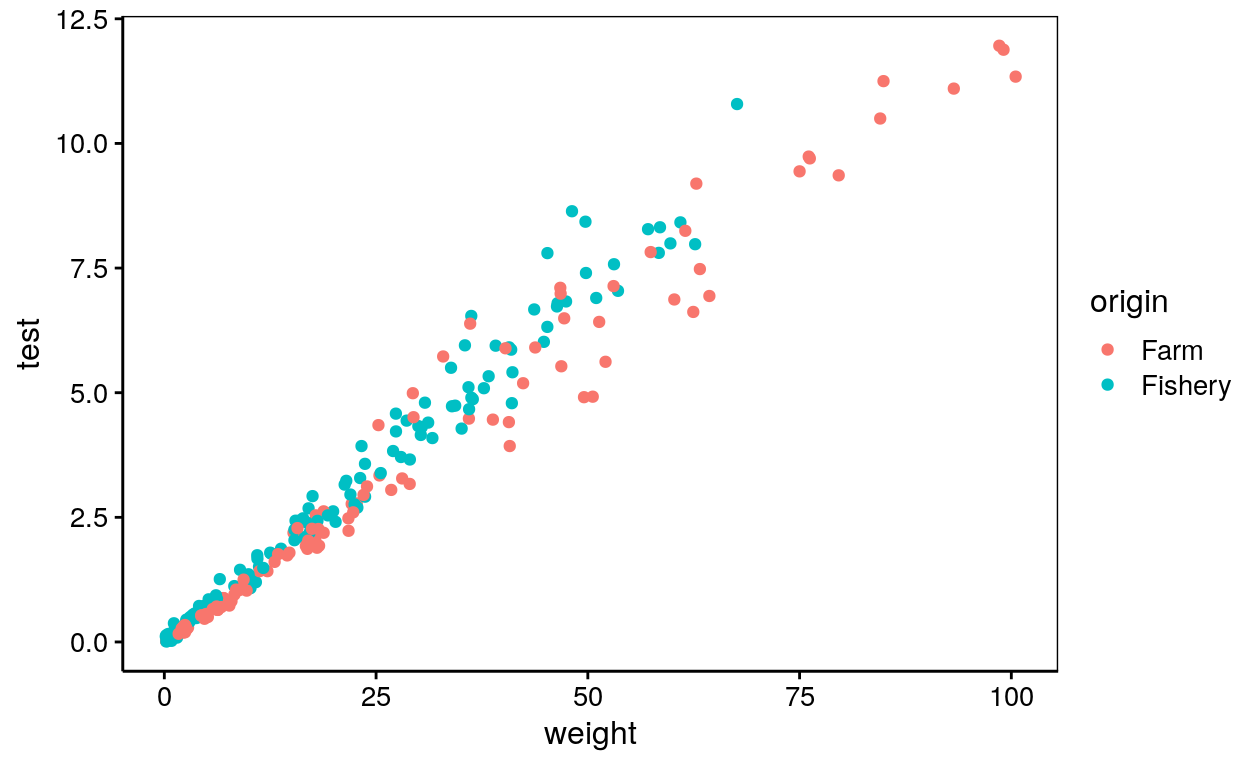
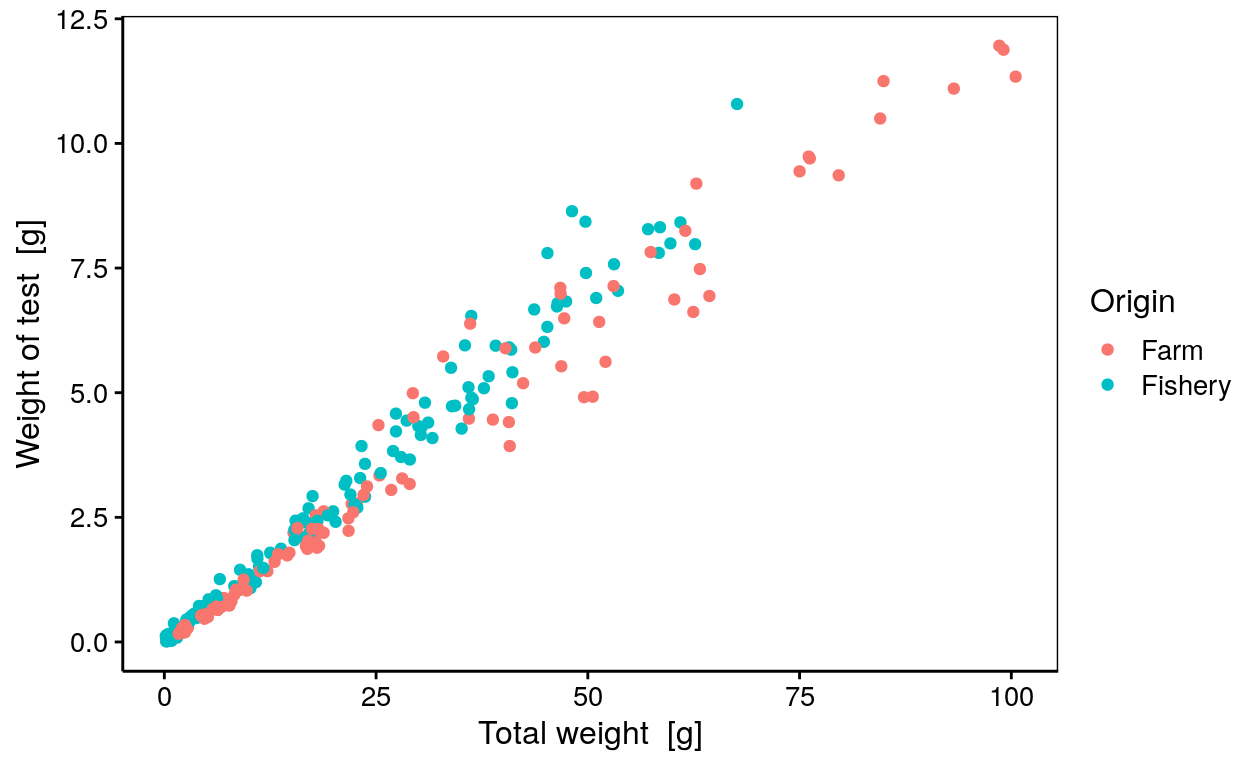
rectification graphique

Changed region(s): [[0.0, 0.2812, 0.0312, 0.625], [0.375, 0.9375, 0.5625, 1.0], [0.875, 0.375, 0.9375, 0.4062]]

diff --git a/docs/posts/graphic-description/index.html b/docs/posts/graphic-description/index.html
@@ -1364,13 +1364,20 @@ document.addEventListener('DOMContentLoaded', function() {
 <div class="d-article">
 <p>This article will study how the urchin’s skeleton could be influenced by the environment. In this case, we will study how is evolving the ratio between the weight of the test, which is the urchin’s skeleton, and the total weight. We will also distinguish if the different individuals come from the fishery or if they were raised in farm. We will work from a set of data which contains 421 observations and measurements following 19 variables.</p>
 <div class="layout-chunk" data-layout="l-body">
+<pre class="r"><code>
+SciViews::R</code></pre>
 <pre><code>
 ── Conflicts ─────────────────────────────────────── tidyverse_conflicts() ──
 x dplyr::filter() masks stats::filter()
 x dplyr::lag()    masks stats::lag()
 x dplyr::select() masks MASS::select()</code></pre>
+<pre class="r"><code>
+data &lt;- read(&quot;urchin_bio&quot;, package = &quot;data.io&quot;)</code></pre>
 </div>
 <div class="layout-chunk" data-layout="l-body">
+<pre class="r"><code>
+chart(data, test ~ weight %col=% origin) +
+  geom_point(na.rm = TRUE)</code></pre>
 <p><img src="graphicdescription_files/figure-html5/unnamed-chunk-2-1.png" width="624" /></p>
 </div>
 <p>We can see that the ratio weight of the test - total weight is in general slightly larger for the individuals from fishery. It means that a wild individual will have a heavier skeleton than the domestic one. It could be caused by the tougher conditions in open seas or by the diet, by an adaptation to the absence of predators in farms,…</p>

diff --git a/_posts/graphic-description/graphicdescription.html b/_posts/graphic-description/graphicdescription.html
@@ -965,13 +965,20 @@
 <div class="d-article">
 <p>This article will study how the urchin’s skeleton could be influenced by the environment. In this case, we will study how is evolving the ratio between the weight of the test, which is the urchin’s skeleton, and the total weight. We will also distinguish if the different individuals come from the fishery or if they were raised in farm. We will work from a set of data which contains 421 observations and measurements following 19 variables.</p>
 <div class="layout-chunk" data-layout="l-body">
+<pre class="r"><code>
+SciViews::R</code></pre>
 <pre><code>
 ── Conflicts ─────────────────────────────────────── tidyverse_conflicts() ──
 x dplyr::filter() masks stats::filter()
 x dplyr::lag()    masks stats::lag()
 x dplyr::select() masks MASS::select()</code></pre>
+<pre class="r"><code>
+data &lt;- read(&quot;urchin_bio&quot;, package = &quot;data.io&quot;)</code></pre>
 </div>
 <div class="layout-chunk" data-layout="l-body">
+<pre class="r"><code>
+chart(data, test ~ weight %col=% origin) +
+  geom_point(na.rm = TRUE)</code></pre>
 <p><img src="graphicdescription_files/figure-html5/unnamed-chunk-2-1.png" width="624" /></p>
 </div>
 <p>We can see that the ratio weight of the test - total weight is in general slightly larger for the individuals from fishery. It means that a wild individual will have a heavier skeleton than the domestic one. It could be caused by the tougher conditions in open seas or by the diet, by an adaptation to the absence of predators in farms,…</p>
